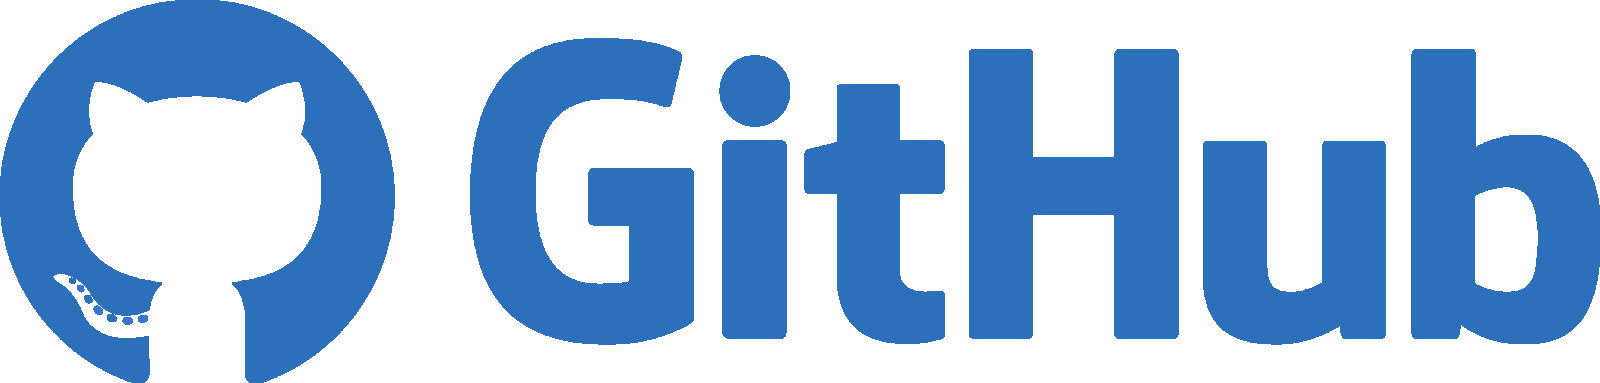
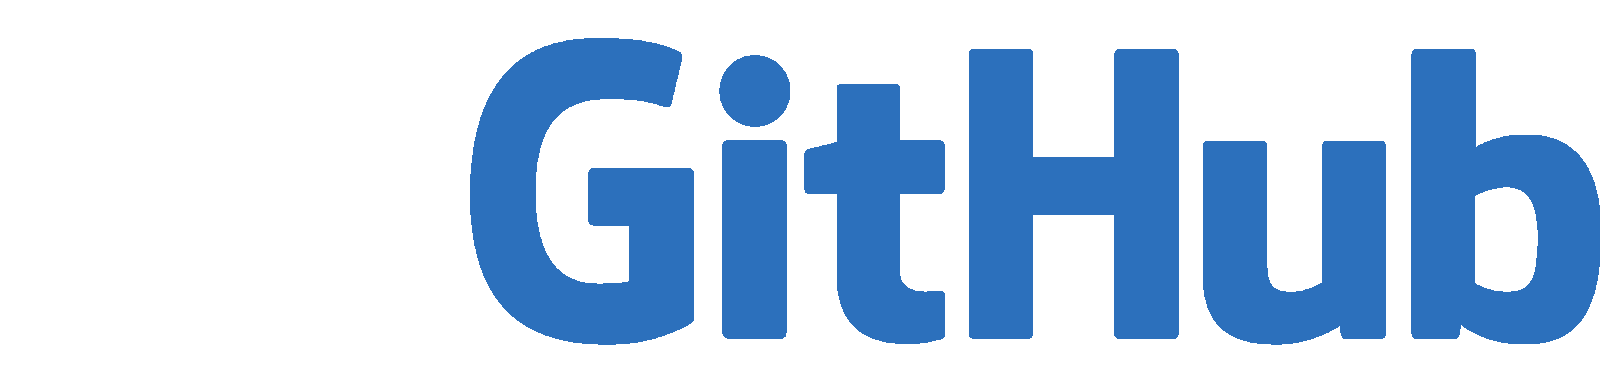
7.8

Changed region(s): [[0.0, 0.0, 0.25, 1.0]]

diff --git a/home.html b/home.html
@@ -85,8 +85,8 @@
       <div class="link">  
       
         <a href="https://github.com/schoeppach" target="_blank">
-          <img src="images/github_grey.png" style="margin-right: 30px;" width="110" height="26"
-          onmouseover="this.src='images/github_white.png';" onmouseout="this.src='images/github_grey.png';">
+          <img src="images/github_white.png" style="margin-right: 30px;" width="110" height="26"
+          onmouseover="this.src='images/github_blue.png';" onmouseout="this.src='images/github_white.png';">
           </a>
 
         <a href="https://de.linkedin.com/in/maik-sch%C3%B6ppach-759b00236" target="_blank">
